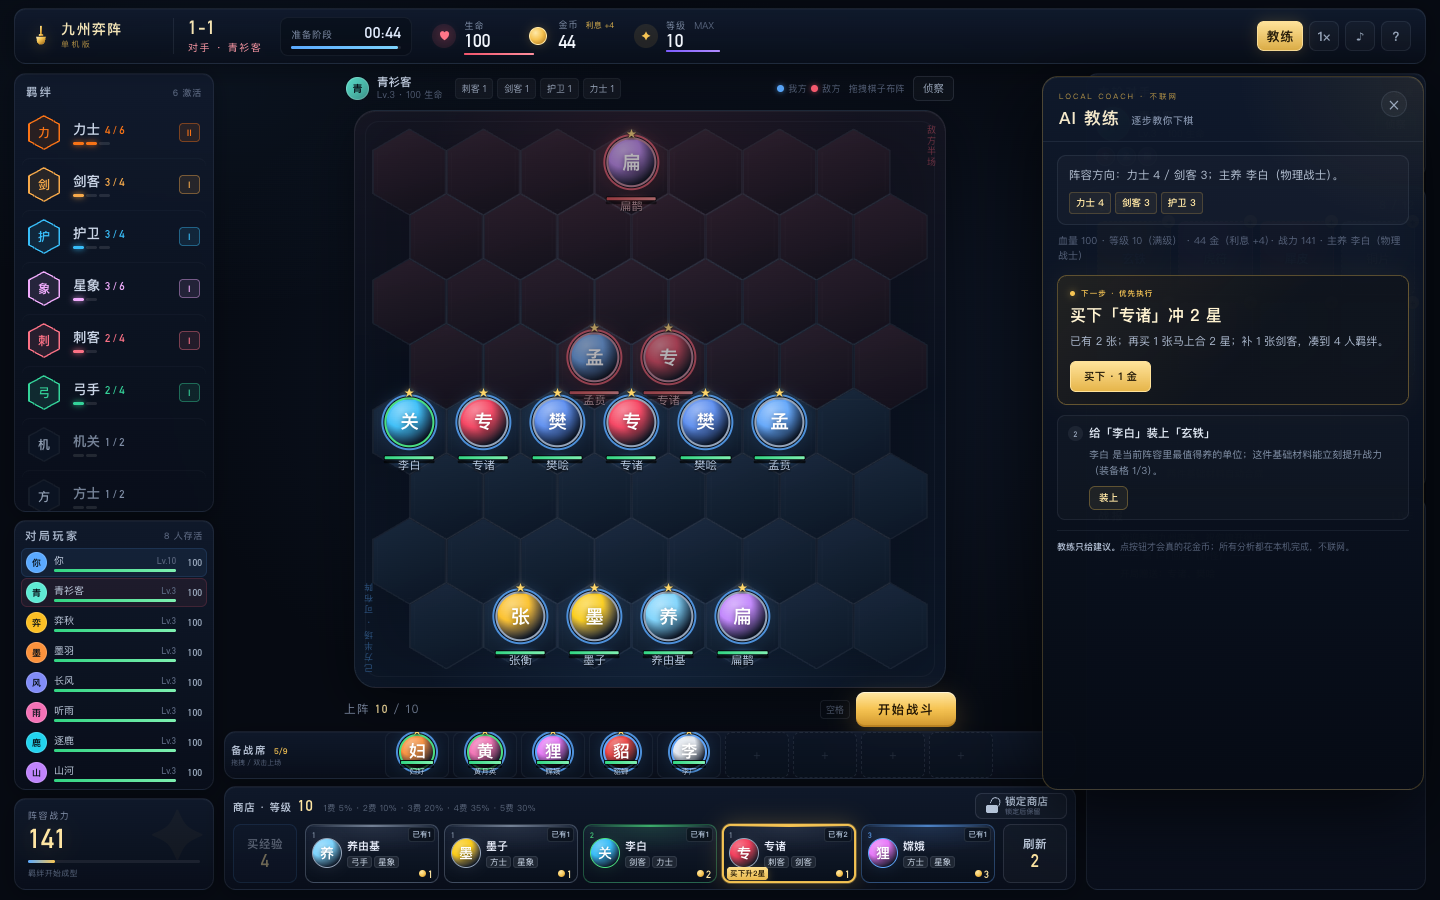
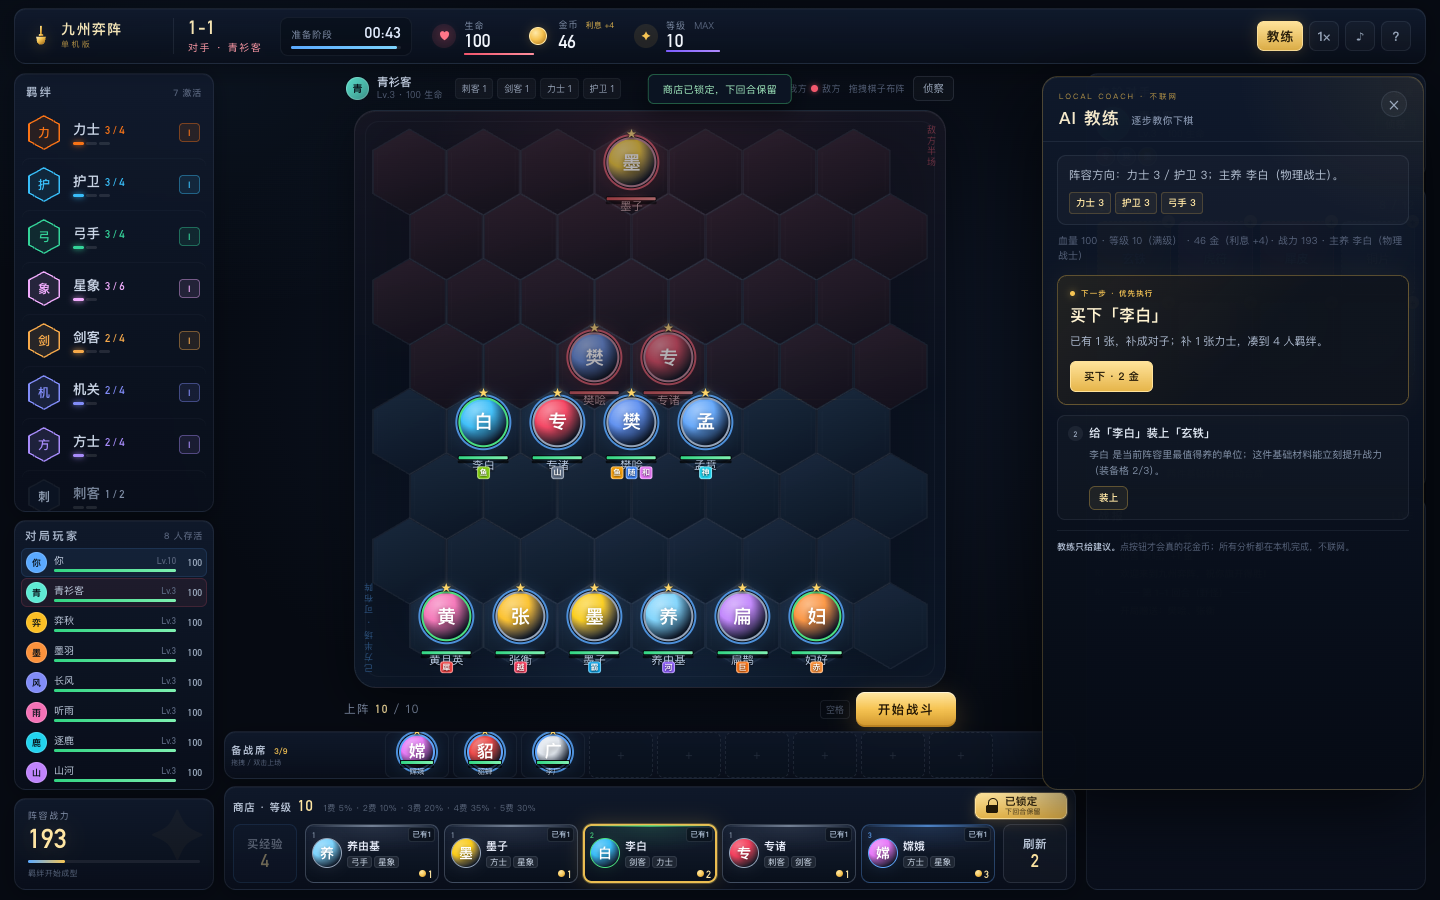
fix: correct hero glyph mapping and refresh previews

diff --git a/js/data.js b/js/data.js
@@ -261,11 +261,11 @@
 
     /* ---------------- 2 费 ---------------- */
     {
-      id: 'li_bai', name: '李白', title: '青莲剑仙', glyph: '关', cost: 2,
+      id: 'li_bai', name: '李白', title: '青莲剑仙', glyph: '白', cost: 2,
       traits: ['blademaster', 'brawler'], range: 1, hp: 800, ad: 65, as: 0.8,
       armor: 35, mr: 30, mana: 60, startMana: 0, color: '#38bdf8',
       spell: {
-        name: '青莲剑歌', icon: '风',
+        name: '青莲剑歌', icon: '剑',
         text: (v, s) => `突进至目标身旁，造成 190% 攻击力 + ${v.dmg[s]} 物理伤害，并溅射周围敌人，获得 ${v.shield[s]} 护盾。`,
         vals: { dmg: [60, 90, 145], shield: [130, 195, 310] },
         cast(b, u, v) {
@@ -342,7 +342,7 @@
       traits: ['guardian', 'mystic'], range: 1, hp: 850, ad: 50, as: 0.55,
       armor: 55, mr: 45, mana: 80, startMana: 0, color: '#fcd34d',
       spell: {
-        name: '天门阵', icon: '阳',
+        name: '天门阵', icon: '门',
         text: (v, s) => `展开天门阵，获得 ${v.shield[s]} 护盾与 30 双抗，持续 5 秒，并眩晕相邻敌人 1.5 秒。`,
         vals: { shield: [330, 495, 780] },
         cast(b, u, v) {
@@ -378,7 +378,7 @@
 
     /* ---------------- 3 费 ---------------- */
     {
-      id: 'chang_e', name: '嫦娥', title: '月宫仙子', glyph: '狸', cost: 3,
+      id: 'chang_e', name: '嫦娥', title: '月宫仙子', glyph: '嫦', cost: 3,
       traits: ['mage', 'starguardian'], range: 3, hp: 750, ad: 50, as: 0.65,
       armor: 25, mr: 30, mana: 70, startMana: 0, color: '#e879f9',
       spell: {
@@ -399,7 +399,7 @@
       traits: ['assassin', 'blademaster'], range: 1, hp: 800, ad: 65, as: 0.7,
       armor: 30, mr: 30, mana: 80, startMana: 0, color: '#ef4444',
       spell: {
-        name: '连环舞', icon: '莲',
+        name: '连环舞', icon: '舞',
         text: (v, s) => `旋舞连环，对周围敌人造成 ${v.dmg[s]} 魔法伤害，并施加 50% 重伤，持续 5 秒。`,
         vals: { dmg: [240, 360, 580] },
         cast(b, u, v) {
@@ -415,7 +415,7 @@
       traits: ['guardian', 'mystic'], range: 2, hp: 900, ad: 55, as: 0.6,
       armor: 45, mr: 40, mana: 80, startMana: 0, color: '#4ade80',
       spell: {
-        name: '巾帼战阵', icon: '阵',
+        name: '巾帼战阵', icon: '巾',
         text: (v, s) => `展开巾帼战阵，对周围敌人造成 ${v.dmg[s]} 魔法伤害并禁锢 1.5 秒。`,
         vals: { dmg: [210, 315, 510] },
         cast(b, u, v) {
@@ -427,11 +427,11 @@
       }
     },
     {
-      id: 'li_guang', name: '李广', title: '飞将军', glyph: '李', cost: 3,
+      id: 'li_guang', name: '李广', title: '飞将军', glyph: '广', cost: 3,
       traits: ['marksman', 'future'], range: 4, hp: 700, ad: 85, as: 0.55,
       armor: 20, mr: 20, mana: 80, startMana: 0, color: '#e2e8f0',
       spell: {
-        name: '射石没羽', icon: '幕',
+        name: '射石没羽', icon: '弓',
         text: (v, s) => `张弓连射 4 箭，每箭造成 140% 攻击力 + ${v.dmg[s]} 物理伤害，第 4 箭必定暴击。`,
         vals: { dmg: [45, 70, 115] },
         cast(b, u, v) {
@@ -453,7 +453,7 @@
       traits: ['blademaster', 'guardian'], range: 1, hp: 900, ad: 60, as: 0.65,
       armor: 50, mr: 40, mana: 70, startMana: 0, color: '#94a3b8',
       spell: {
-        name: '负荆固守', icon: '魂',
+        name: '负荆固守', icon: '守',
         text: (v, s) => `为所有友军提供 ${v.shield[s]} 护盾，持续 4 秒；自身获得双倍护盾。`,
         vals: { shield: [190, 285, 460] },
         cast(b, u, v) {
@@ -468,7 +468,7 @@
       traits: ['brawler', 'blademaster'], range: 1, hp: 950, ad: 70, as: 0.75,
       armor: 35, mr: 30, mana: 60, startMana: 0, color: '#f59e0b',
       spell: {
-        name: '双戟破军', icon: '狂',
+        name: '双戟破军', icon: '戟',
         text: (v, s) => `进入狂战，获得 60% 攻速、30% 生命偷取并免疫控制，持续 6 秒。`,
         vals: {},
         cast(b, u) {
@@ -481,11 +481,11 @@
 
     /* ---------------- 4 费 ---------------- */
     {
-      id: 'nie_zheng', name: '聂政', title: '白虹贯日', glyph: '丽', cost: 4,
+      id: 'nie_zheng', name: '聂政', title: '白虹贯日', glyph: '聂', cost: 4,
       traits: ['assassin', 'blademaster'], range: 1, hp: 900, ad: 80, as: 0.8,
       armor: 35, mr: 35, mana: 50, startMana: 0, color: '#f43f5e',
       spell: {
-        name: '白虹刺', icon: '剑',
+        name: '白虹刺', icon: '刺',
         text: (v, s) => `连续刺杀 5 次，每次对生命最低的敌人造成 ${v.dmg[s]} 魔法伤害。`,
         vals: { dmg: [110, 165, 285] },
         cast(b, u, v) {
@@ -502,11 +502,11 @@
       }
     },
     {
-      id: 'zhuge_liang', name: '诸葛亮', title: '卧龙', glyph: '龙', cost: 4,
+      id: 'zhuge_liang', name: '诸葛亮', title: '卧龙', glyph: '诸', cost: 4,
       traits: ['mage', 'dragon'], range: 3, hp: 900, ad: 60, as: 0.6,
       armor: 30, mr: 30, mana: 90, startMana: 0, color: '#818cf8',
       spell: {
-        name: '八阵图', icon: '渊',
+        name: '八阵图', icon: '卦',
         text: (v, s) => `布下八阵图，对目标周围敌人造成 ${v.dmg[s]} 魔法伤害并眩晕 1 秒。`,
         vals: { dmg: [360, 540, 950] },
         cast(b, u, v) {
@@ -546,7 +546,7 @@
       traits: ['blademaster', 'marksman'], range: 3, hp: 850, ad: 70, as: 0.8,
       armor: 25, mr: 25, mana: 60, startMana: 0, color: '#fde68a',
       spell: {
-        name: '九日坠', icon: '翼',
+        name: '九日坠', icon: '日',
         text: (v, s) => `释放 3 道落日箭，每道对目标周围敌人造成 ${v.dmg[s]} 魔法伤害；每次施法永久获得 10% 攻速。`,
         vals: { dmg: [100, 150, 260] },
         cast(b, u, v) {
@@ -585,7 +585,7 @@
 
     /* ---------------- 5 费 ---------------- */
     {
-      id: 'guan_yu', name: '关羽', title: '武圣', glyph: '李', cost: 5,
+      id: 'guan_yu', name: '关羽', title: '武圣', glyph: '关', cost: 5,
       traits: ['brawler', 'mystic'], range: 1, hp: 1250, ad: 95, as: 0.75,
       armor: 55, mr: 50, mana: 60, startMana: 0, color: '#f59e0b',
       spell: {

diff --git a/index.html b/index.html
@@ -8,7 +8,7 @@
   <meta name="theme-color" content="#060a12">
   <link rel="icon" href="favicon.svg" type="image/svg+xml">
   <title>九州弈阵 · 单机版</title>
-  <link rel="stylesheet" href="css/style.css?v=20261025-2">
+  <link rel="stylesheet" href="css/style.css?v=20261025-3">
 </head>
 <body>
   <div class="bg-noise"></div>
@@ -392,11 +392,11 @@
   <div id="dragGhost" class="drag-ghost hidden"></div>
   <div id="battleBanner" class="battle-banner hidden"><span></span></div>
 
-  <script src="js/data.js?v=20261025-2"></script>
-  <script src="js/engine.js?v=20261025-2"></script>
-  <script src="js/game.js?v=20261025-2"></script>
-  <script src="js/coach.js?v=20261025-2"></script>
-  <script src="js/ui.js?v=20261025-2"></script>
-  <script src="js/main.js?v=20261025-2"></script>
+  <script src="js/data.js?v=20261025-3"></script>
+  <script src="js/engine.js?v=20261025-3"></script>
+  <script src="js/game.js?v=20261025-3"></script>
+  <script src="js/coach.js?v=20261025-3"></script>
+  <script src="js/ui.js?v=20261025-3"></script>
+  <script src="js/main.js?v=20261025-3"></script>
 </body>
 </html>
